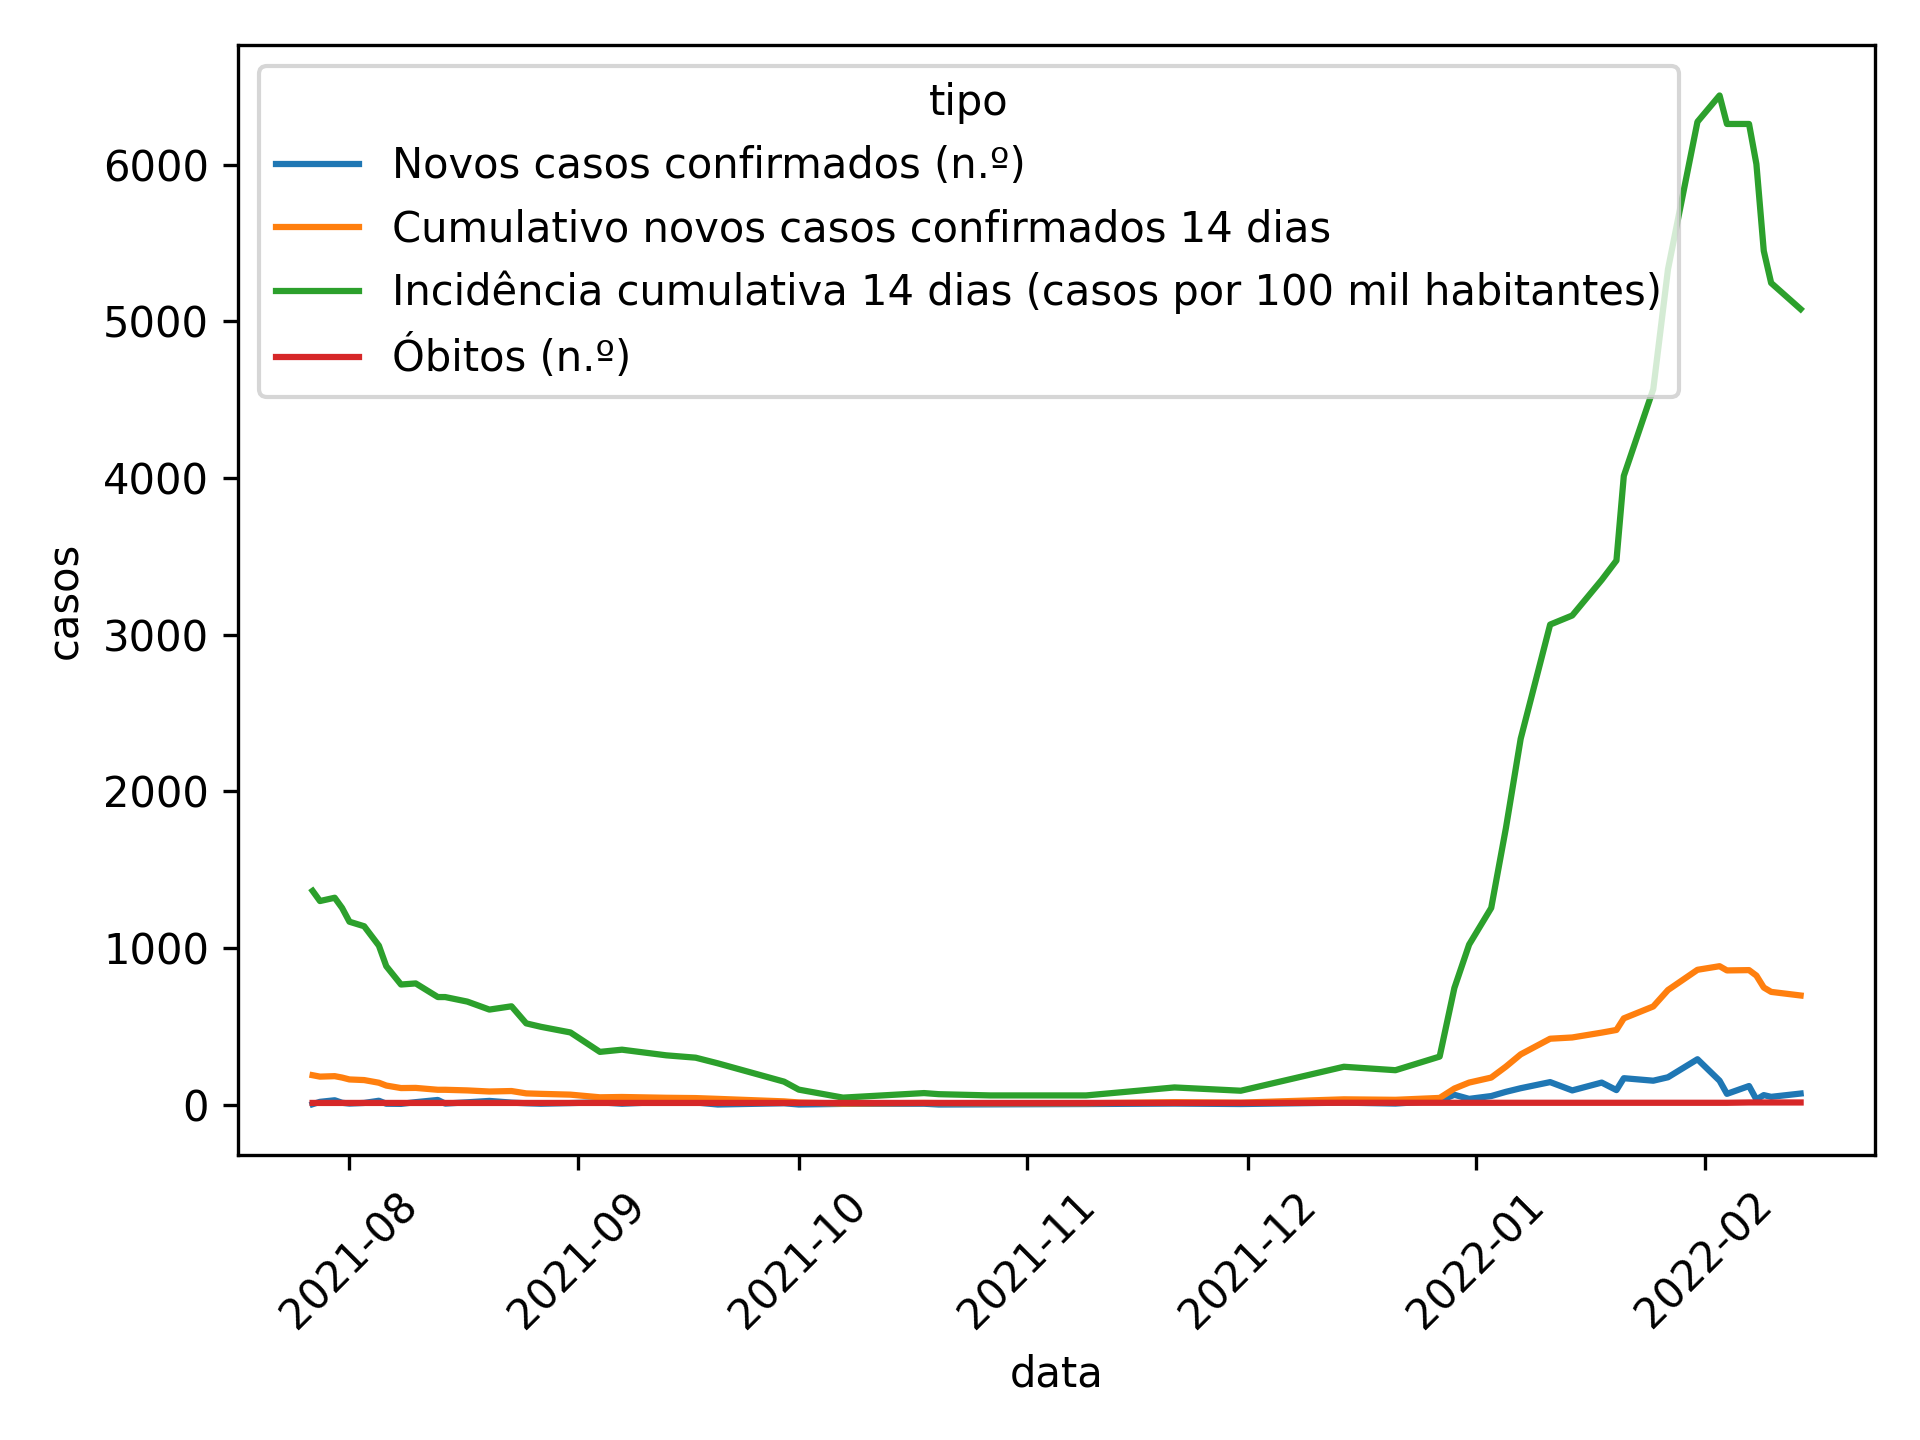
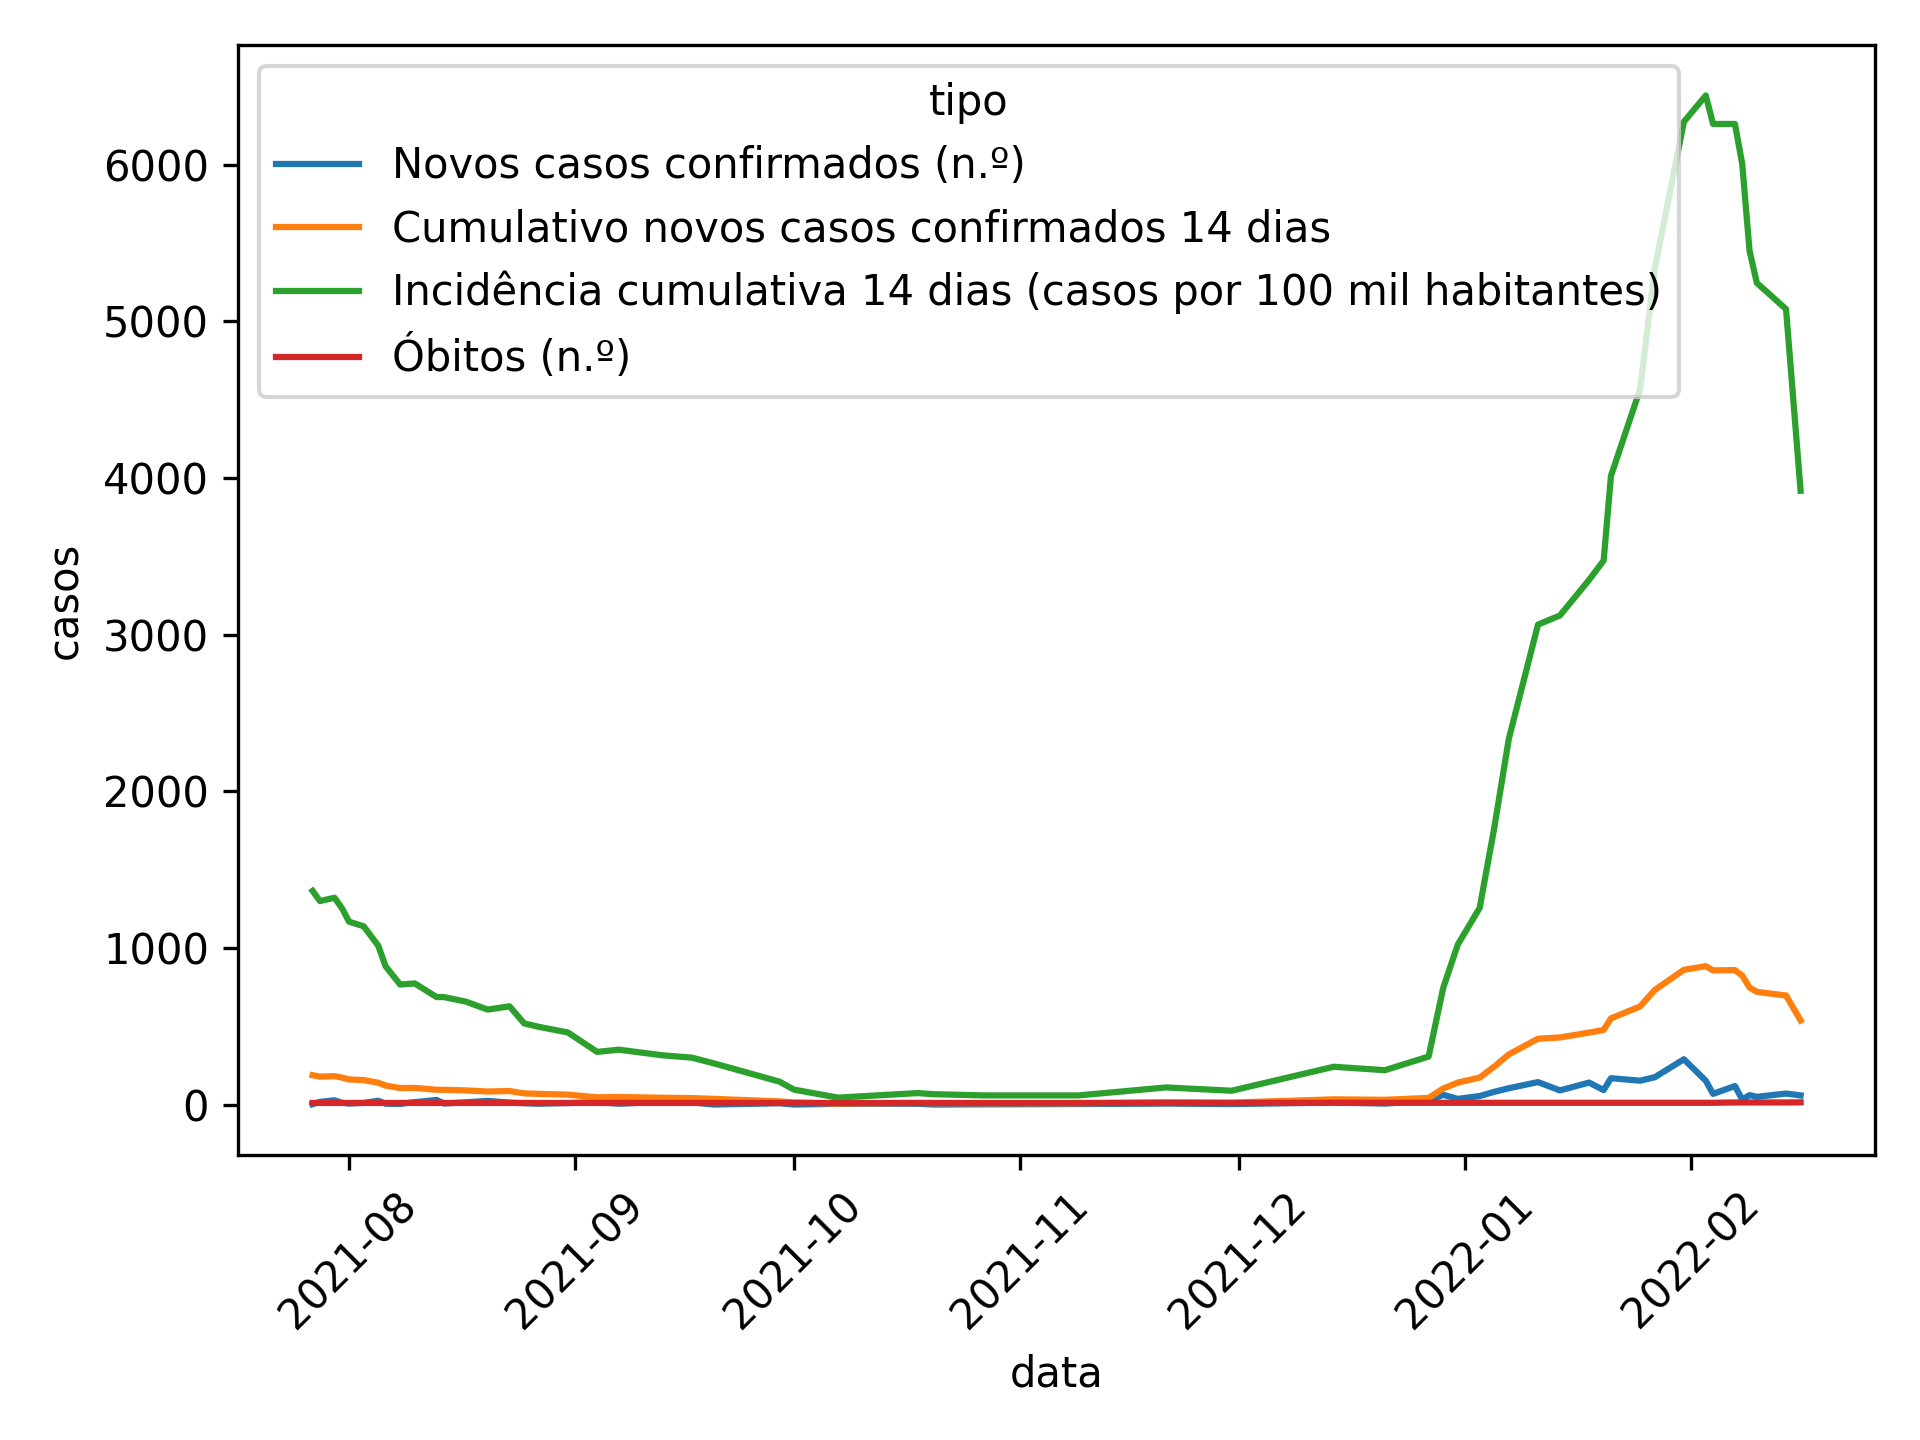
Apply automatic changes

diff --git a/README.md b/README.md
@@ -6,7 +6,6 @@
 
 | data       |   Novos casos confirmados (n.º) |   Cumulativo novos casos confirmados 14 dias |   Incidência cumulativa 14 dias (casos por 100 mil habitantes) |   Óbitos (n.º) |   Casos ativos (n.º) |   Vigilâncias ativas (n.º) |
 |:-----------|--------------------------------:|---------------------------------------------:|---------------------------------------------------------------:|---------------:|---------------------:|---------------------------:|
-| 11-01-2022 |                             143 |                                          420 |                                                           3064 |             11 |                  129 |                         99 |
 | 14-01-2022 |                              90 |                                          428 |                                                           3122 |             11 |                  105 |                         85 |
 | 18-01-2022 |                             140 |                                          459 |                                                           3349 |             11 |                  173 |                        128 |
 | 20-01-2022 |                              92 |                                          476 |                                                           3473 |             11 |                  108 |                        nan |
@@ -21,3 +20,4 @@
 | 09-02-2022 |                              60 |                                          747 |                                                           5450 |             13 |                  nan |                        nan |
 | 10-02-2022 |                              49 |                                          719 |                                                           5245 |             13 |                  nan |                        nan |
 | 14-02-2022 |                              70 |                                          696 |                                                           5078 |             13 |                  nan |                        nan |
+| 16-02-2022 |                              58 |                                          537 |                                                           3918 |             14 |                  nan |                        nan |
